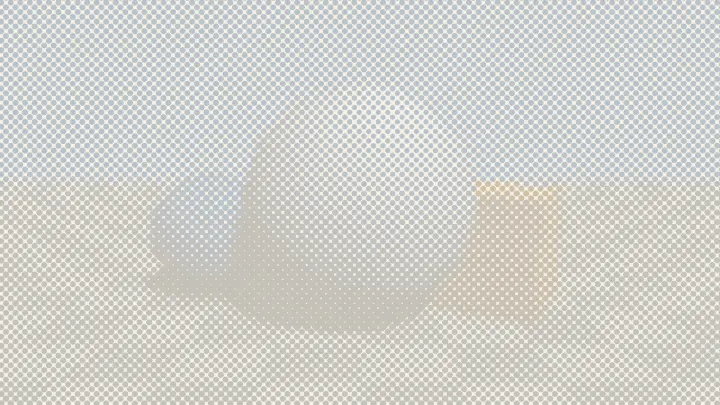
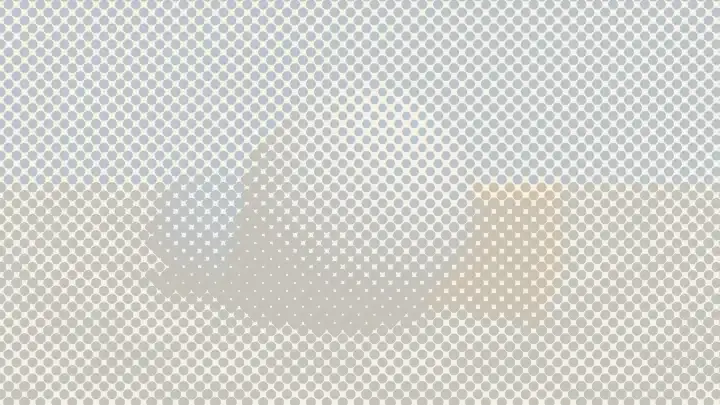
dispatch(screen-halftone-dots-fix): 표본 수정: screen-halftone-dots 리뷰 반영
Dispatch-Job: screen-halftone-dots-fix
Dispatch-Profile: org
Dispatch-Model: claude-opus-5-5

diff --git a/web/src/specimens/screen-halftone-dots/meta.ts b/web/src/specimens/screen-halftone-dots/meta.ts
@@ -10,10 +10,10 @@ export const meta: SpecimenMeta = {
   goals: [
     '화면비를 보정한 좌표를 돌리고 화면 높이의 줄 수로 칸을 나눠, 해상도와 상관없이 같은 모양의 정사각 칸 격자를 만들 수 있다.',
     '칸 중심에서 화면 색을 한 번만 읽고 선형 밝기로 잉크 덮임을 구해, 면적이 덮임과 맞도록 반지름을 제곱근으로 정할 수 있다.',
-    '`fwidth` 로 원 가장자리를 한 픽셀만 부드럽게 하고, CMYK 네 판을 다른 각도로 겹쳐 로제트 무늬를 만들 수 있다.',
-    '화면 전체를 덮는 점 격자의 광과민 안전 기준(점 안 밝기 60% 이상, 움직이지 않는 점, 끄기 옵션)을 지켜 게임 옵션으로 넣을 수 있다.',
+    '칸 크기로 계산한 한 픽셀 폭으로 원 가장자리를 부드럽게 하고, CMYK 네 판을 다른 각도로 겹쳐 로제트 무늬를 만들 수 있다.',
+    '화면 전체를 덮는 점 격자의 광과민 안전 기준(종이 색까지 곱한 점 안 밝기 60% 이상, 움직이지 않는 점, 끄기 옵션)을 지켜 게임 옵션으로 넣을 수 있다.',
   ],
-  tags: ['전체 화면', '하프톤', '칸 중심 샘플', 'fwidth', 'Full Screen Pass'],
+  tags: ['전체 화면', '하프톤', '칸 중심 샘플', '안티에일리어싱', 'Full Screen Pass'],
   difficulty: 2,
   shaderFile: 'ScreenHalftoneDots.shader',
   // 어두운 무대는 거의 모든 칸이 큰 점으로 덮여 덩어리가 된다. 밝은 하늘과 바닥에서 점 크기의 차이를 보인다
@@ -31,10 +31,10 @@ export const meta: SpecimenMeta = {
       default: '1',
       hint: '흑백 한 판은 잉크 색 하나로 밝기만, 칸 색 점은 칸 중심에서 읽은 색으로 점을 칠한다. CMYK 네 판은 시안, 마젠타, 노랑, 검정 판을 15·75·0·45 도로 따로 돌려 겹친다 (판마다 화면을 한 번씩 더 읽어 가장 비싸다)',
     },
-    { key: '_Rows', label: '줄 수', type: 'range', min: 16, max: 240, step: 1, default: 60, unit: ' 줄', hint: '화면 높이를 몇 칸으로 나눌지. 픽셀이 아니라 줄 수라 해상도가 바뀌어도 모양이 같다. 기본 60 은 1080p 에서 칸 한 변이 18 픽셀이다. 칸이 3 픽셀보다 작아지면 점 대신 원본 화면으로 섞인다' },
+    { key: '_Rows', label: '줄 수', type: 'range', min: 16, max: 240, step: 1, default: 36, unit: ' 줄', hint: '화면 높이를 몇 칸으로 나눌지. 픽셀이 아니라 줄 수라 해상도가 바뀌어도 모양이 같다. 기본 36 은 1080p 에서 칸 한 변이 30 픽셀이다. 올리면 점이 촘촘해진다. 칸이 4 픽셀보다 작아지면 원본 화면이 섞이기 시작해 3 픽셀에서 점이 사라진다' },
     { key: '_Angle', showWhen: { key: '_Mode', values: ['0', '1'] }, label: '각도', type: 'range', min: 0, max: 90, step: 1, default: 45, unit: '°', hint: '흑백과 칸 색에서만 쓴다. 칸 격자를 돌리는 각도. 눈은 가로·세로 줄에 민감해 45 도가 가장 덜 거슬리고, 0 이면 점이 바둑판처럼 줄을 맞춘다. CMYK 는 판 각도가 고정이다' },
     { key: '_DotGain', label: '점 굵기 보정', type: 'range', min: -0.3, max: 0.3, step: 0.01, default: 0, hint: '모든 칸의 덮임에 더한다. 올리면 점이 굵어지고 흰 곳에도 작은 점이 생기며, 내리면 밝은 곳의 점이 사라져 종이가 드러난다' },
-    { key: '_InkStrength', label: '잉크 세기', type: 'range', min: 0, max: 1, step: 0.01, default: 0.4, hint: '점 안이 얼마나 어두워질 수 있는지. 가장 진한 점도 종이 × (1 - 이 값) 밝기라 0.4 면 점 안이 종이의 60% 밝기다. 그보다 어두운 잉크(검정, 그늘의 칸 색, 겹친 CMYK)는 흰색 쪽으로 올려 그 밝기에 맞추고, 하늘처럼 이미 밝은 칸 색은 그대로 둔다. 0 이면 종이만 남는다. 0.4 를 넘기면 화면 전체 정지 무늬의 대비 권장을 벗어나므로 기본값과 게임 기본 설정은 0.4 이하로 둔다' },
+    { key: '_InkStrength', label: '잉크 세기', type: 'range', min: 0, max: 1, step: 0.01, default: 0.4, hint: '점 안이 얼마나 어두워질 수 있는지. 가장 진한 점도 종이 밝기의 (1 - 이 값)에 8비트 여유 1% 를 더한 밝기라, 0.4 면 점 안이 종이의 61% 이상 밝기다. 종이 색까지 곱한 색으로 재고, 그보다 어두운 잉크는 흰색 쪽으로 올려 그 밝기에 맞춘다. 검정 잉크와 겹친 CMYK 는 회색이 되고, 무대 하늘 같은 중간 밝기의 칸 색도 올라가 기본값에서는 색이 옅어진다. 그대로 남는 것은 선형 밝기 0.61 이상인 하이라이트뿐이다. 0 이면 종이만 남는다. 0.4 를 넘기면 화면 전체 정지 무늬의 대비 권장을 벗어나므로 기본값과 게임 기본 설정은 0.4 이하로 둔다' },
     { key: '_PaperColor', label: '종이 색', type: 'color', default: '#f7f2e6', hint: '점 밖의 색. 점 안에도 곱해진다. 크림색이면 오래된 인쇄물, 흰색이면 깨끗한 인쇄물처럼 보인다' },
     { key: '_InkColor', showWhen: { key: '_Mode', values: ['0'] }, label: '잉크 색', type: 'color', default: '#1f2a44', hint: '흑백 한 판에서만 쓴다. 점을 칠하는 잉크의 색. 잉크 세기가 정한 밝기보다 어두우면 흰색 쪽으로 올라가므로 검정이어도 기본값에서는 회색 점이다' },
   ],
@@ -46,17 +46,17 @@ export const meta: SpecimenMeta = {
   ],
   events: [],
   steps: [
-    { n: 1, label: '돌린 칸 격자', body: '칸 안 좌표를 빨강(가로), 초록(세로)으로 보였다. 기본 줄 수에서는 칸이 작아 비스듬한 잔무늬로만 보이니 줄 수를 20 쪽으로 내려 본다. 왼쪽 꼭짓점이 어둡고 오른쪽 꼭짓점이 노란 마름모가 화면을 덮는다. 정사각 칸을 45 도 돌린 것이다. 가로가 긴 화면인데도 마름모가 찌그러지지 않는다. 좌표에 화면비를 곱한 뒤 돌렸기 때문이다. 각도를 0 으로 내리면 칸이 바둑판처럼 선다.' },
+    { n: 1, label: '돌린 칸 격자', body: '칸 안 좌표를 회색 바탕에 빨강(가로), 초록(세로)으로 옅게 더해 보였다. 화면 전체를 덮는 정지 무늬라 칸 경계의 대비를 낮췄다. 줄 수를 20 쪽으로 내리면 잘 보인다. 아래 꼭짓점이 회색(칸 좌표 0, 0), 위 꼭짓점이 살구색(1, 1), 오른쪽 꼭짓점이 분홍(빨강 1, 0), 왼쪽 꼭짓점이 연두(초록 0, 1)인 마름모가 화면을 덮는다. 정사각 칸을 45 도 돌린 것이다. 가로가 긴 화면인데도 마름모가 찌그러지지 않는다. 좌표에 화면비를 곱한 뒤 돌렸기 때문이다. 각도를 0 으로 내리면 칸이 바둑판처럼 선다.' },
     { n: 2, label: '칸 중심에서 읽은 색', body: '칸 안의 모든 픽셀이 칸 가운데 한 점의 색을 읽어 화면이 비스듬한 마름모 모자이크가 되었다. 공의 윤곽과 바닥 격자의 경계가 칸 크기의 톱니로 끊긴다. 점 하나가 색 하나를 가져야 경계에서 점이 반쪽으로 잘리지 않는다.' },
-    { n: 3, label: '점 마스크', body: '칸 색의 선형 밝기로 잉크 덮임(1 - 밝기)을 구하고, 원 면적이 덮임과 같도록 반지름을 덮임의 제곱근에 비례하게 그렸다. 흰 종이에 검은 점으로 보인다. 하늘과 바닥은 칸의 3분의 2 쯤 되는 점, 큰 공 위쪽의 밝은 곳은 작은 점이다. 공 아래 그늘은 점이 칸 밖으로 넘쳐 서로 붙고 칸 귀퉁이에 작은 흰 구멍만 남는다. CMYK 를 고르면 네 판을 순수한 잉크로 겹쳐 하늘에 시안과 남색, 상자에 노랑이 섞인 작은 꽃 모양(로제트)이 보인다. 최종 화면은 이 점을 잉크 세기가 정한 밝기 아래로 내려가지 않게 종이에 찍은 것이다.' },
+    { n: 3, label: '점 마스크', body: '칸 색의 선형 밝기로 잉크 덮임(1 - 밝기)을 구하고, 원 면적이 덮임과 같도록 반지름을 덮임의 제곱근에 비례하게 그렸다. 화면 전체를 덮는 정지 무늬라 검은 점 대신 흰 바탕에 연한 회색 점(점 안이 바탕의 61% 밝기)으로 보였다. 하늘과 바닥은 칸의 3분의 2 쯤 되는 점, 큰 공 위쪽의 밝은 곳은 작은 점이다. 공 아래 그늘은 점이 칸 밖으로 넘쳐 서로 붙고 칸 귀퉁이에 작은 흰 구멍만 남는다. CMYK 를 고르면 네 판을 겹친 뒤 같은 하한을 걸어, 하늘에 시안과 연보라, 상자에 노랑이 섞인 작은 꽃 모양(로제트)이 보인다. 최종 화면은 이 점을 칸 색이나 잉크 색으로 칠해, 잉크 세기가 정한 밝기 아래로 내려가지 않게 종이에 찍은 것이다.' },
   ],
   offNote: '반지름을 밝기에 선형으로 둔 흔한 실수 (`r = 0.5 × (1 - 밝기)`). 점 면적은 반지름의 제곱이라 중간 톤(덮임 0.5)에서 잉크가 칸의 20% 만 덮는다. 하늘과 바닥의 점이 눈에 띄게 작아져 화면이 종이 색으로 밝게 뜨고 색이 빠진다. 반지름이 0.5 에서 멈춰 공 아래 그늘도 점끼리 닿기만 하고 메워지지 않아, 어두운 곳이 어둡게 보이지 않는다.',
   mistakes: [
     { title: '화면 전체가 밝고 색이 빠져 보인다', body: '반지름을 밝기에 선형으로 두면(`r = 0.5 × (1 - 밝기)`) 점 면적이 그 제곱이라 중간 톤의 잉크가 크게 모자란다 (덮임 0.5 에서 20%). 칸 한 변을 1 로 두고 `r = sqrt(덮임 / π)` 로 면적을 덮임에 맞춘다. 덮임이 78.5% 를 넘으면 원이 칸 밖으로 넘치므로, 그 위에서는 반대각선 0.707 까지 키워 귀퉁이의 흰 구멍이 줄어들게 한다.' },
     { title: '물체 경계에서 점이 반달처럼 잘리고 지글거린다', body: '픽셀마다 자기 자리의 색을 읽어 덮임을 구하면 칸 하나 안에서 반지름이 바뀌어, 색 경계를 지나는 점이 반쪽만 그려진다. 칸 좌표를 `floor + 0.5` 로 칸 중심에 모은 뒤 거꾸로 돌려 화면 uv 로 되돌리고, 그 한 점에서만 읽는다. CMYK 는 판마다 자기 각도의 칸 중심에서 따로 읽는다.' },
     { title: '중간 톤의 점이 작아 사진이 바랜 듯 밝다', body: '감마(sRGB) 값으로 덮임을 계산한 경우다. sRGB 0.5 는 선형 밝기 0.21 이라 실제로는 79% 를 덮어야 같은 밝기로 보이는데 50% 만 덮는다. URP 의 Linear 색 공간에서는 화면 텍스처가 선형으로 읽히므로 읽은 값을 그대로 쓰고, 표시용 sRGB 로 바꾼 값이나 Gamma 색 공간 프로젝트의 값으로 덮임을 구하지 않는다.' },
-    { title: '점이 가로로 늘어난 타원이거나 해상도마다 점 크기가 다르다', body: 'uv 에 바로 칸 수를 곱하면 가로가 긴 화면에서 칸이 직사각이 되고 점이 타원이 된다. 화면 가운데를 원점으로 `float2(aspect, 1)` 을 곱한 뒤 돌린다. 칸 크기를 픽셀로 정하면 1080p 와 720p 에서 점 개수가 달라지므로 화면 높이의 줄 수로 정한다. 칸이 3 픽셀보다 작으면 점이 픽셀과 부딪쳐 얼룩이 되므로 원본으로 섞는다.' },
-    { title: '점 무늬 화면이 눈을 피곤하게 한다', body: '화면 전체를 덮는 정지 점 격자도 줄무늬처럼 광과민 반응을 일으킬 수 있다. 점 안이 점 밖의 60% 이상 밝기가 되게 잉크 세기를 0.4 이하로 둔다. 잉크를 섞는 비율로만 낮추면 밝은 칸 색까지 함께 바래므로, 잉크의 선형 밝기가 종이 × (1 - 잉크 세기) 보다 어두울 때만 흰색 쪽으로 올려 맞춘다. CMYK 는 판이 겹친 결과에 건다. 점을 시간으로 움직이거나 크기를 계속 바꾸지 않는다. 신문 흑백처럼 대비가 높은 모양은 잠깐 쓰는 연출이나 이용자가 고르는 옵션으로만 두고, 게임 옵션에서 효과를 끌 수 있게 한다.' },
+    { title: '점이 가로로 늘어난 타원이거나 해상도마다 점 크기가 다르다', body: 'uv 에 바로 칸 수를 곱하면 가로가 긴 화면에서 칸이 직사각이 되고 점이 타원이 된다. 화면 가운데를 원점으로 `float2(aspect, 1)` 을 곱한 뒤 돌린다. 칸 크기를 픽셀로 정하면 1080p 와 720p 에서 점 개수가 달라지므로 화면 높이의 줄 수로 정한다. 칸이 몇 픽셀 안 되면 점이 픽셀과 부딪쳐 얼룩이 되므로 4 픽셀부터 원본을 섞기 시작해 3 픽셀에서 원본으로 둔다.' },
+    { title: '점 무늬 화면이 눈을 피곤하게 한다', body: '화면 전체를 덮는 정지 점 격자도 줄무늬처럼 광과민 반응을 일으킬 수 있다. 점 안이 점 밖의 60% 이상 밝기가 되게 잉크 세기를 0.4 이하로 둔다. 비율은 잉크만이 아니라 종이 색까지 곱한 최종 색의 선형 밝기로 잰다 (잉크만 재서 맞추면 색이 강한 종이와 잉크의 조합에서 최종 비율이 60% 아래로 내려간다). 잉크를 섞는 비율로만 낮추면 밝은 칸 색까지 함께 바래므로, `L(종이 × 잉크)` 가 `L(종이) × (1 - 잉크 세기)` 보다 어두울 때만 잉크를 흰색 쪽으로 올려 맞추고, 8비트 반올림에 대비해 1% 여유(0.4 에서 61%)를 둔다. CMYK 는 판이 겹친 결과에 건다. 단계 보기처럼 마스크를 보여 주는 화면도 흰 바탕에 검정으로 칠하지 않는다. 점을 시간으로 움직이거나 크기를 계속 바꾸지 않는다. 신문 흑백처럼 대비가 높은 모양은 잠깐 쓰는 연출이나 이용자가 고르는 옵션으로만 두고, 게임 옵션에서 효과를 끌 수 있게 한다.' },
   ],
   unity: {
     setup: [
@@ -66,13 +66,13 @@ export const meta: SpecimenMeta = {
       'Pass Material 에 머티리얼을 넣고 Fetch Color Buffer 를 켠다. Injection Point 는 Bloom 이 없으면 Before Rendering Post Processing, Bloom 이나 톤 매핑 뒤에 점을 찍으려면 After Rendering Post Processing 으로 둔다.',
       '옵션 메뉴의 토글을 Full Screen Pass Renderer Feature 의 `SetActive` 에 연결해 효과를 끌 수 있게 한다.',
     ],
-    verify: 'Game 뷰 전체가 45 도로 기운 점 격자로 바뀌고, 밝은 하늘에는 작은 점, 어두운 그늘에는 큰 점이 찍힌다. 줄 수를 내리면 점이 커지고, 방식을 CMYK 로 바꾸면 네 색 점이 겹친 작은 꽃 모양이 보이며, 잉크 세기를 0 으로 내리면 종이 색만 남는다.',
+    verify: 'Game 뷰 전체가 45 도로 기운 옅은 점 격자로 바뀌고, 하늘처럼 중간 밝기인 곳에는 칸의 3분의 2 쯤 되는 점, 공의 밝은 윗부분 같은 하이라이트에는 작은 점, 어두운 그늘에는 서로 붙은 큰 점이 찍힌다. 줄 수를 내리면 점이 커지고, 방식을 CMYK 로 바꾸면 네 색 점이 겹친 작은 꽃 모양이 보이며, 잉크 세기를 0 으로 내리면 종이 색만 남는다.',
     pitfalls: [
-      '화면 전체를 덮는 정지 점 격자는 광과민 반응을 일으킬 수 있다. 게임 옵션으로 효과를 끌 수 있게 한다 (Full Screen Pass Renderer Feature 를 `SetActive(false)` 하거나 렌더러를 바꾼다. 에디터에서는 Renderer Feature 의 켜짐 상태가 에셋에 저장된다). 기본 잉크 세기 0.4 는 점 안이 종이의 60% 밝기다. 셰이더는 잉크 세기를 막지 않으므로 0.4 를 넘는 값(신문 흑백 프리셋 0.92)은 이용자가 고르는 옵션으로만 둔다. 점을 움직이는 연출(시간으로 흘리기, 점 크기 반복)은 넣지 않는다.',
+      '화면 전체를 덮는 정지 점 격자는 광과민 반응을 일으킬 수 있다. 게임 옵션으로 효과를 끌 수 있게 한다 (Full Screen Pass Renderer Feature 를 `SetActive(false)` 하거나 렌더러를 바꾼다. 에디터에서는 Renderer Feature 의 켜짐 상태가 에셋에 저장된다). 기본 잉크 세기 0.4 는 점 안이 종이의 61% 이상 밝기다 (종이 색까지 곱한 선형 밝기, 8비트 여유 1% 포함). 셰이더는 잉크 세기를 막지 않으므로 0.4 를 넘는 값(신문 흑백 프리셋 0.92)은 이용자가 고르는 옵션으로만 둔다. 점을 움직이는 연출(시간으로 흘리기, 점 크기 반복)은 넣지 않는다.',
       'Bloom 과 톤 매핑 뒤에 점을 찍으려면 Injection Point 를 After Rendering Post Processing 으로 둔다. Before Rendering Post Processing 이면 점 가장자리가 Bloom 에 번진다. After Rendering Post Processing 과 FXAA, 업스케일(FSR, STP)의 순서는 확인하지 않았다.',
       'Screen Space - Overlay 캔버스의 UI 는 이 패스 뒤에 그려져 점이 덮이지 않는다. 글자는 읽기 쉽게 남는 편이 낫다. UI 까지 덮으려면 Screen Space - Camera 캔버스를 쓴다. Renderer Feature 는 그 렌더러를 쓰는 모든 카메라와 Scene 뷰에 걸리므로, 미니맵이나 렌더 텍스처 카메라는 다른 렌더러를 쓰게 한다.',
       'XR 에서는 이 패스를 끈다. 머리에 붙은 화면 공간 점 무늬는 두 눈의 무늬가 장면 깊이와 맞지 않아 화면에 붙은 막처럼 보인다 (추정, 실기기 미확인). XR 에서는 같은 원리를 물체 표면의 음영(월드 공간 좌표)으로 옮긴다.',
-      '비용은 픽셀마다 화면 텍스처 읽기 2번(흑백, 칸 색: 칸 중심 1번과 원본 1번) 또는 5번(CMYK: 판마다 1번과 원본 1번)이다. 모바일에서는 흑백이나 칸 색을 권한다. 칸 크기는 `_ScreenSize`(카메라 대상 높이)의 줄 수라 Render Scale 이나 동적 해상도를 바꿔도 칸 모양은 같고, 칸이 3 픽셀보다 작아지면 원본으로 섞인다.',
+      '비용은 픽셀마다 화면 텍스처 읽기 2번(흑백, 칸 색: 칸 중심 1번과 원본 1번) 또는 5번(CMYK: 판마다 1번과 원본 1번)이다. 모바일에서는 흑백이나 칸 색을 권한다. CMYK 의 판 읽기는 모드 분기 안에 있어 밉 0 으로 읽고(`SAMPLE_TEXTURE2D_X_LOD`), 점 가장자리 폭도 `fwidth` 대신 줄 수 × 픽셀 크기로 계산한다. 분기 안에서 미분을 쓰면 Unity 가 경고를 낸다. 칸 크기는 `_ScreenSize`(카메라 대상 높이)의 줄 수라 Render Scale 이나 동적 해상도를 바꿔도 칸 모양은 같고, 칸이 4 픽셀보다 작아지면 원본이 섞이기 시작해 3 픽셀에서 점이 사라진다.',
     ],
   },
   prompt: {
@@ -84,14 +84,11 @@ export const meta: SpecimenMeta = {
       '옵션 메뉴에 필터 끄기, 은은한 질감, 만화 인쇄 세 단계를 두고 싶다.',
     ],
   },
-  // 화면을 덮는 잔무늬라 촬영 용량이 크다. 기본값(칸 색 점)과 CMYK 한 장만 찍는다. 둘 다 잉크 세기 0.4 (안전 기준 안)
-  captures: [
-    { name: 'comic-cmyk', label: '만화 인쇄 CMYK', values: { _Mode: '2', _Rows: 70, _PaperColor: '#f6ecd2' } },
-  ],
-  // 기본값(칸 색 점)은 잉크 세기 0.4 라 점이 옅다. 네 판이 겹친 로제트가 한눈에 보이는 CMYK 촬영을 썸네일로 쓴다
-  thumbnail: 'comic-cmyk',
+  // 화면을 덮는 잔무늬는 WebP 로 줄지 않아 촬영 한 장이 수십 KB 다 (60 줄, 품질 0.75 에서 66KB). 기본 칸을 36 줄로 키우고
+  // 기본값 한 장만 찍으며 품질을 낮춰 표본당 용량 기준(gzip 45KB) 안에 둔다 (가이드 7절)
+  shotQuality: 0.5,
   inspiredBy: [],
-  original: '특정 게임의 재현이 아니라 인쇄 하프톤의 원리(돌린 칸 격자, 칸 중심 한 번 읽기, 면적을 덮임에 맞춘 제곱근 반지름, CMYK 판 각도)를 이 갤러리에서 새로 작성했다. 튜토리얼과 Unity 샘플의 코드는 옮기지 않았다. 칸 크기를 화면 높이의 줄 수로 정해 웹 미리보기와 Unity 화면이 같은 모양이 되게 했고, 광과민 안전을 위해 잉크의 선형 밝기에 하한(기본 종이의 60%)을 두고 점을 움직이지 않게 했다. 하한보다 밝은 칸 색은 그대로 두어 안전 기준 안에서도 색이 남는다. 덮임 78.5% 위의 반지름은 귀퉁이 흰 구멍의 면적으로 근사했다.',
+  original: '특정 게임의 재현이 아니라 인쇄 하프톤의 원리(돌린 칸 격자, 칸 중심 한 번 읽기, 면적을 덮임에 맞춘 제곱근 반지름, CMYK 판 각도)를 이 갤러리에서 새로 작성했다. 튜토리얼과 Unity 샘플의 코드는 옮기지 않았다. 칸 크기를 화면 높이의 줄 수로 정해 웹 미리보기와 Unity 화면이 같은 모양이 되게 했고, 광과민 안전을 위해 종이 색까지 곱한 점 안의 선형 밝기에 하한(기본 종이의 61%, 8비트 여유 포함)을 두고 점을 움직이지 않게 했다. 섞는 비율로 낮추지 않고 하한보다 어두운 잉크만 올리므로 밝은 하이라이트의 색은 남지만, 무대 하늘 같은 중간 밝기의 칸 색은 기본값에서 옅어진다. 덮임 78.5% 위의 반지름은 귀퉁이 흰 구멍의 면적으로 근사했다.',
   references: [
     { label: 'Unity Shader Graph: Production Ready 후처리 샘플 (Half Tone)', url: 'https://docs.unity3d.com/Packages/com.unity.shadergraph@17.4/manual/Shader-Graph-Sample-Production-Ready-Post.html' },
     { label: 'Unity Shader Graph: UGUI Shaders 샘플 서브그래프 (Halftone)', url: 'https://docs.unity3d.com/Packages/com.unity.shadergraph@17.4/manual/Shader-Graph-Sample-UGUI-Shaders-Subgraph-nodes.html' },
@@ -100,7 +97,7 @@ export const meta: SpecimenMeta = {
   ],
   related: [
     { id: 'screen-crt-scanline', why: '같은 "가상 해상도 칸의 중심에서 읽기" 원리를 1D 줄에서 쓴다. 정지 줄무늬 안전 규칙도 같다' },
-    { id: 'ui-sdf-shape', why: '원 SDF 와 `fwidth` 한 픽셀 안티에일리어싱이 같다' },
+    { id: 'ui-sdf-shape', why: '원 SDF 를 한 픽셀만 부드럽게 하는 원리가 같다. 여기서는 `fwidth` 대신 칸 크기로 픽셀 폭을 계산한다' },
     { id: 'depth-normal-edge-outline', why: '외곽선 후처리와 겹치면 만화 인쇄 느낌이 된다' },
     { id: 'toon-ramp-lit', why: '툰 음영 위에 덮는 만화 질감. 점을 표면(월드 공간)에 붙이는 변형의 출발점' },
   ],
